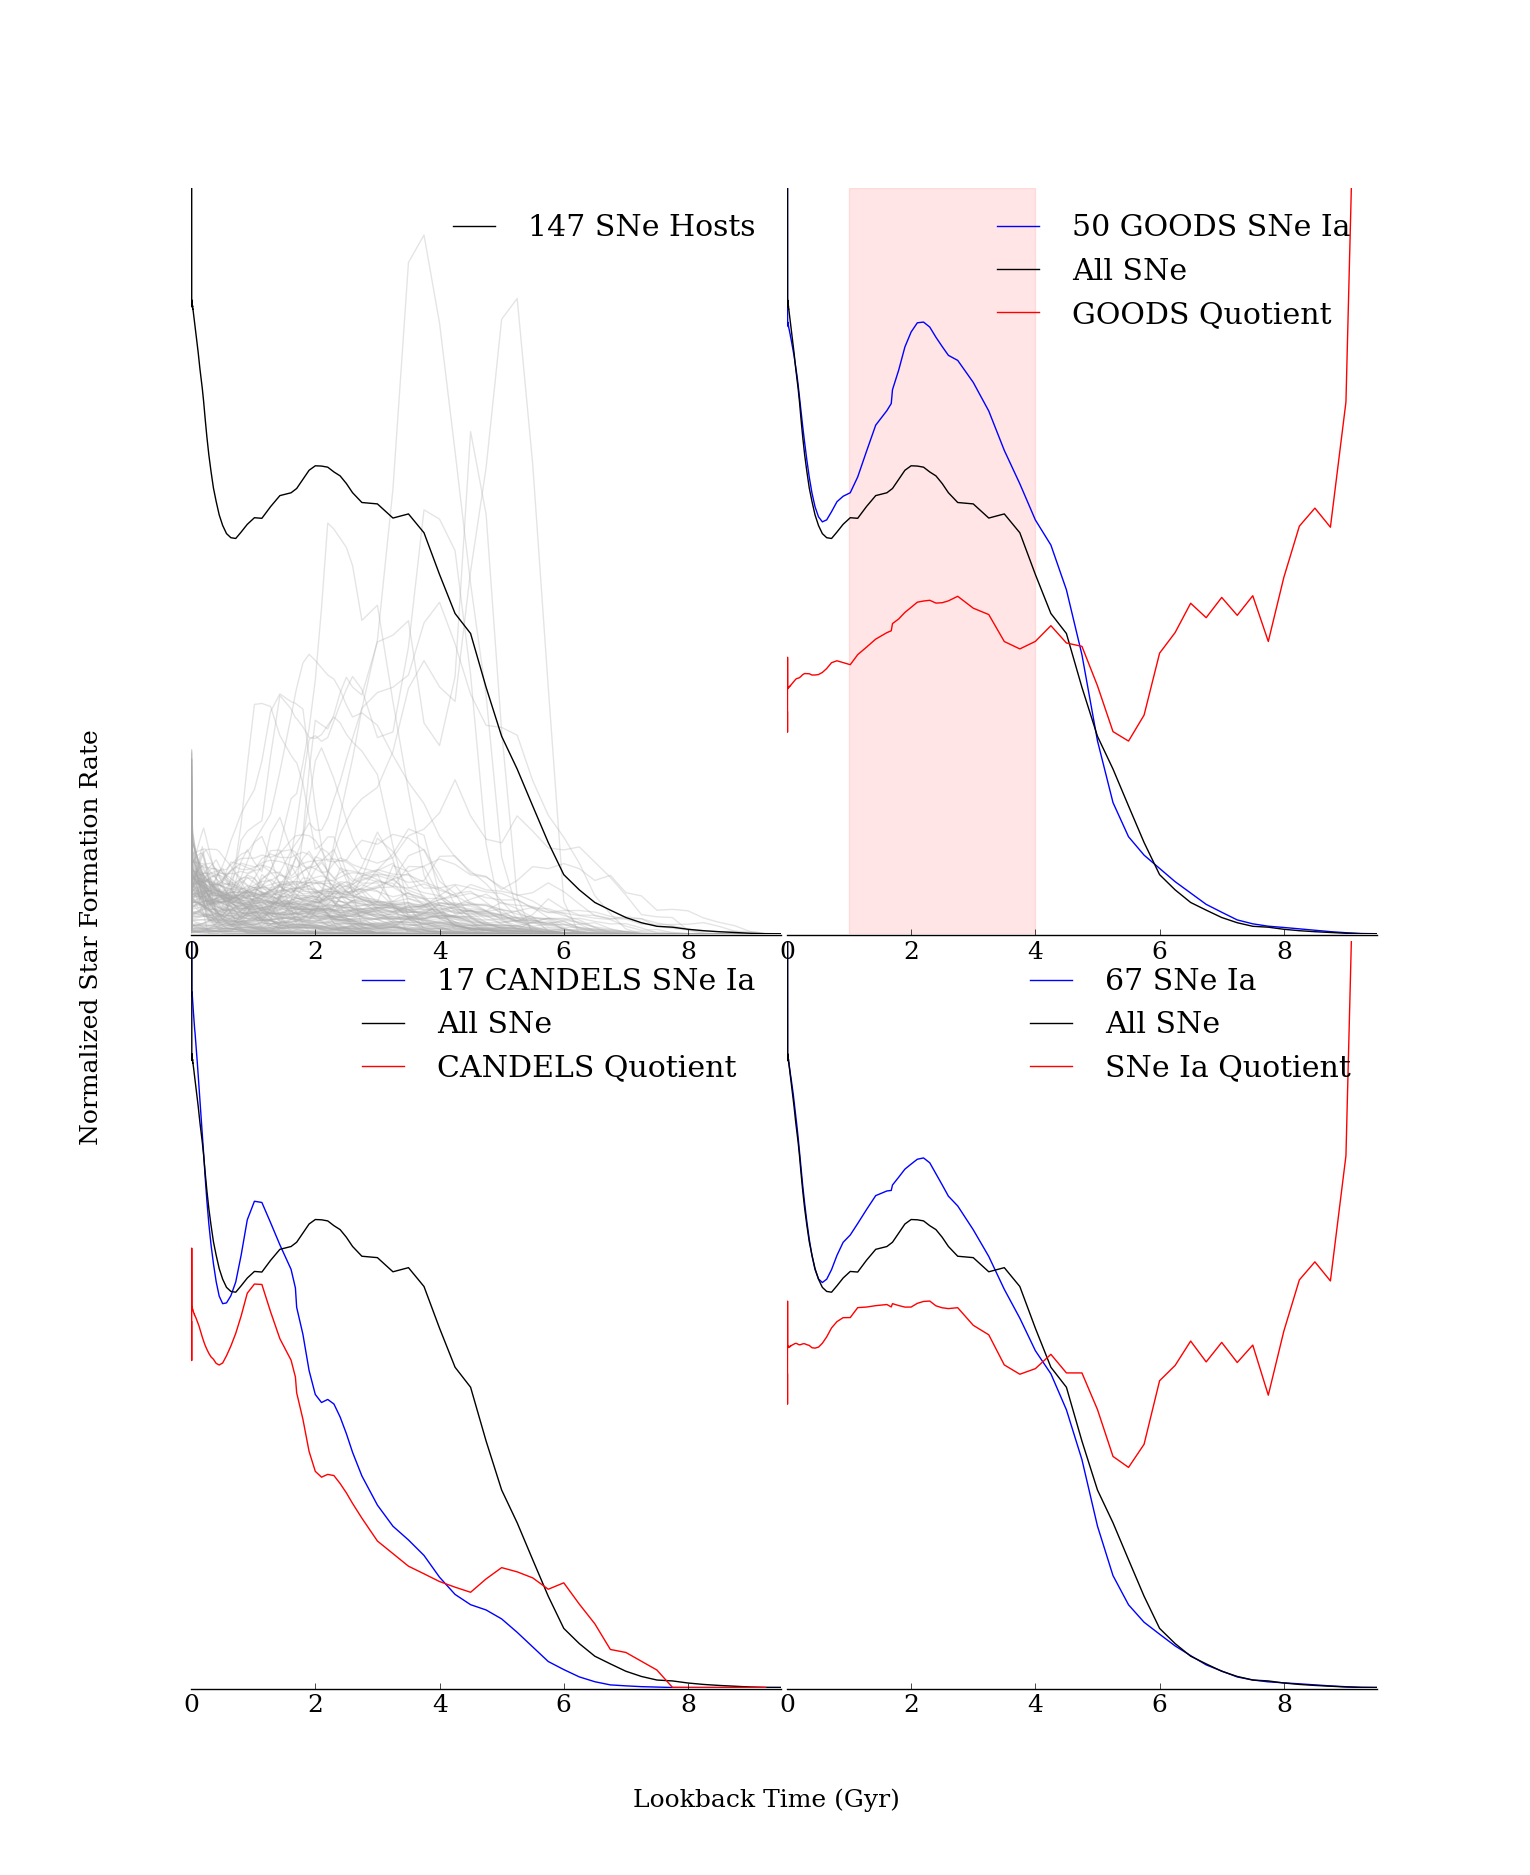
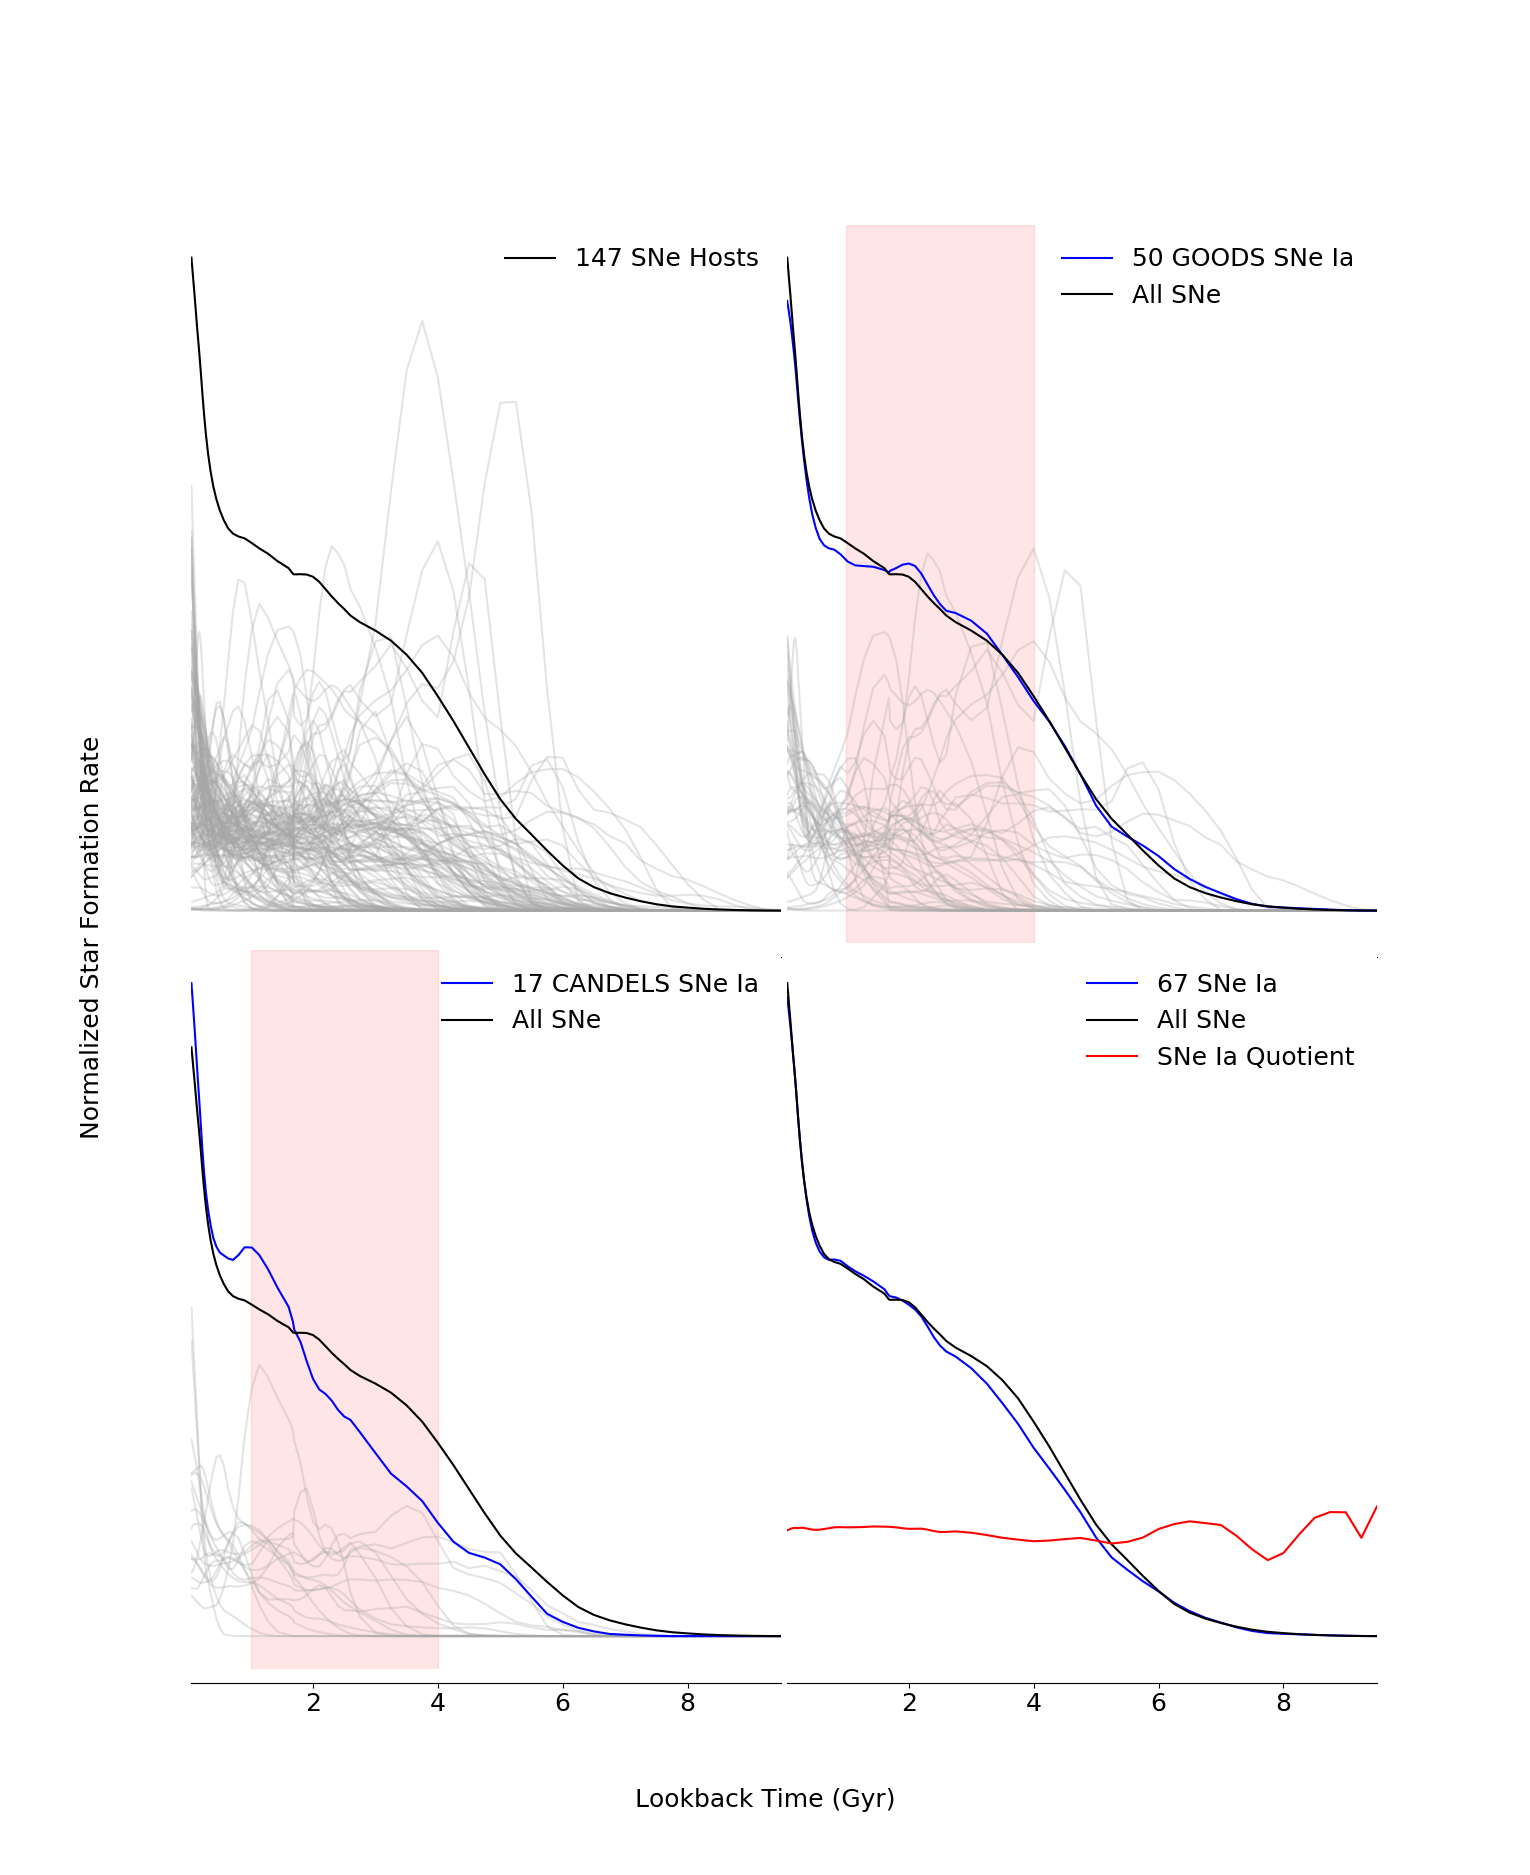
modified:   plot1.png 	modified:   plot_sfhs.py

diff --git a/analysis/scripts/plot_sfhs.py b/analysis/scripts/plot_sfhs.py
@@ -7,6 +7,26 @@ from stsci.convolve import boxcar
 rcParams['figure.figsize']=15.3, 18.75
 rcParams['font.size']=18.0
 
+def adjust_spines(ax, spines):
+    for loc, spine in ax.spines.items():
+        if loc in spines:
+            spine.set_position(('outward', 10))  # outward by 10 points
+            spine.set_smart_bounds(True)
+        else:
+            spine.set_color('none')  # don't draw spine
+
+    # turn off ticks where there is no spine
+    if 'left' in spines:
+        ax.yaxis.set_ticks_position('left')
+    else:
+        # no yaxis ticks
+        ax.yaxis.set_ticks([])
+
+    if 'bottom' in spines:
+        ax.xaxis.set_ticks_position('bottom')
+    else:
+        # no xaxis ticks
+        ax.xaxis.set_ticks([])
 
 
 if __name__=='__main__':
@@ -15,7 +35,7 @@ if __name__=='__main__':
 
     sfhs = glob.glob('../SN_SFH/*/*.dat')
     lbu = 9.5
-    lbl = 0.003
+    lbl = 0.05
     bxsmooth=3
     
     fig = plt.figure()
@@ -31,9 +51,9 @@ if __name__=='__main__':
         data = loadtxt(sfh)[1:]
         ii = where((data[:,0]>lbl)&(data[:,0]<=lbu)) # cuts the data range
         data = data[ii]
-        #data[:,1] = boxcar(data[:,1],(bxsmooth,))
+        data[:,1] = boxcar(data[:,1],(bxsmooth,))
         composite+=data[:,1]/simps(data[:,1])
-        ax1.plot(data[:,0], data[:,1]/simps(data[:,1])/len(sfhs)*10, '-', color='0.65',alpha=0.3)
+        ax1.plot(data[:,0], data[:,1]/simps(data[:,1])/len(sfhs)*30, '-', color='0.65',alpha=0.3)
     ax1.plot(data[:,0],composite/len(sfhs),'k-', label='%d SNe Hosts' %len(sfhs))
 
     codex = []
@@ -60,9 +80,9 @@ if __name__=='__main__':
     for line in lines:
         if line.startswith('#'): continue
         ias.append(line.split(',')[0])
-
     goods_composite_ia=0
     misses = 0
+    ax3 = subplot(222)
     for ia in ias:
         idx = where(codex[:,1]==ia)
         if not codex[idx][:,0]: misses+=1; continue
@@ -72,33 +92,29 @@ if __name__=='__main__':
         data = loadtxt(sfh[0])[1:]
         ii = where((data[:,0]>lbl)&(data[:,0]<=lbu))
         data = data[ii]
-        #data[:,1] = boxcar(data[:,1],(bxsmooth,))
+        data[:,1] = boxcar(data[:,1],(bxsmooth,))
         goods_composite_ia += data[:,1]/simps(data[:,1])
+        ax3.plot(data[:,0], data[:,1]/simps(data[:,1])/5., '-', color='0.65',alpha=0.3)
     norm1=len(ias)-misses
-    norm1 =1
-    ax3 = subplot(222)
     ax3.plot(data[:,0],goods_composite_ia/norm1,'b-',label='%d GOODS SNe Ia' %norm1)
-    #ax3.plot(data[:,0],composite/len(sfhs),'k',label='All SNe')
+    ax3.plot(data[:,0],composite/len(sfhs),'k',label='All SNe')
     #test1 = goods_composite_ia/composite*(len(sfhs)/norm1)
     #ax3.plot(data[:,0], test1*0.005,'r-', label='GOODS Quotient')
     #ax3.axvspan(2.2,2.8,color='red',alpha=0.1)
     ax3.axvspan(1,4,color='red',alpha=0.1)
-    show()
-    sys.exit()
     
 
-    f = open('candels_1as.csv')
-    #f = open('candels_guesses.csv')
+    f = open('candels_guesses.csv')
     lines = f.readlines()
     f.close()
     ias = []
     for line in lines:
         if line.startswith('#'): continue
-        if float(line.split(',')[-1]>0.5):
+        if (float(line.split(',')[-1])>0.5):
             ias.append(line.split(',')[0])
-
     candels_composite_ia=0
     misses = 0
+    ax4 = subplot(223)
     for ia in ias:
         idx = where(codex[:,1]==ia)
         if not codex[idx][:,0]: misses+=1; continue
@@ -110,16 +126,16 @@ if __name__=='__main__':
         data = data[ii]
         data[:,1] = boxcar(data[:,1],(bxsmooth,))
         candels_composite_ia += data[:,1]/simps(data[:,1])
+        ax4.plot(data[:,0], data[:,1]/simps(data[:,1])/5., '-', color='0.65',alpha=0.3)
     norm2=len(ias)-misses
-    ax4 = subplot(223)
     ax4.plot(data[:,0],candels_composite_ia/norm2,'b-',label='%d CANDELS SNe Ia' %norm2)
     ax4.plot(data[:,0],composite/len(sfhs),'k',label='All SNe')
-    test2 = candels_composite_ia/composite*(len(sfhs)/norm2)
-    ax4.plot(data[:,0], test2*0.005,'r-', label='CANDELS Quotient')
+    #test2 = candels_composite_ia/composite*(len(sfhs)/norm2)
+    #ax4.plot(data[:,0], test2*0.005,'r-', label='CANDELS Quotient')
+    ax4.axvspan(1,4,color='red',alpha=0.1)
 
 
     ax5 = subplot(224)
-
     ax5.plot(data[:,0],(candels_composite_ia+goods_composite_ia)/(norm1+norm2),
              'b-',label='%d SNe Ia' %(norm1+norm2))
     ax5.plot(data[:,0], composite/len(sfhs), 'k',label='All SNe')
@@ -127,18 +143,17 @@ if __name__=='__main__':
              'r-',label='SNe Ia Quotient')
 
 
-
-    u.adjust_spines(ax1, ['bottom'])#['left'])
-    u.adjust_spines(ax3, ['bottom'])
-    u.adjust_spines(ax4, ['bottom'])#['left','bottom'])
-    u.adjust_spines(ax5, ['bottom'])
+    adjust_spines(ax1, ['bottom'])#['left'])
+    adjust_spines(ax3, ['bottom'])
+    adjust_spines(ax4, ['bottom'])#['left','bottom'])
+    adjust_spines(ax5, ['bottom'])
 
     ylims = (0,0.01)
     xlims = (lbl,lbu)
-    ax1.set_ylim(ylims)
-    ax3.set_ylim(ylims)
-    ax4.set_ylim(ylims)
-    ax5.set_ylim(ylims)
+    #ax1.set_ylim(ylims)
+    #ax3.set_ylim(ylims)
+    #ax4.set_ylim(ylims)
+    #ax5.set_ylim(ylims)
 
     ax1.set_xlim(xlims)
     ax3.set_xlim(xlims)
@@ -153,5 +168,4 @@ if __name__=='__main__':
 
     plt.subplots_adjust(wspace=0.01,hspace=0.01)
     #show()
-    savefig('plot1.png',transparent=True)
-        
+    savefig('plot1.png')#,transparent=True)
